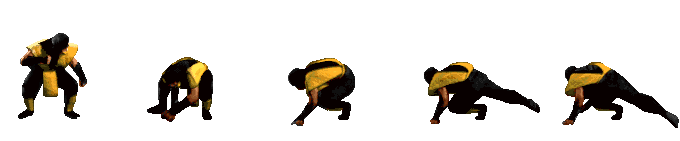
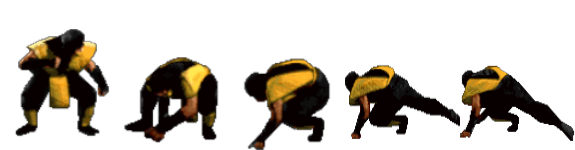
Termine patada baja y agregue golpe de puño que esta incompleto

Changed region(s): [[0.4139, 0.3688, 1.0, 1.0], [0.0296, 0.1702, 0.3843, 0.9645]]

diff --git a/view/GameView.cpp b/view/GameView.cpp
@@ -121,7 +121,7 @@ void GameView::LoadSprites() {
     scorpionKickDown = new CharacterSprite(this->renderer, scorpion->getFileMovement(MOVE_NAME_KICKDOWN), scorpion->getX(), scorpion->getY(), scorpion->getWidth(), scorpion->getHeight(), 5, oponentSide, false);
     scorpionPunchJump = new CharacterSprite(this->renderer, scorpion->getFileMovement(MOVE_NAME_PUNCHJUMP), scorpion->getX(), scorpion->getY(), scorpion->getWidth(), scorpion->getHeight(), 3, oponentSide, false);
     scorpionPunchUp = new CharacterSprite(this->renderer, scorpion->getFileMovement(MOVE_NAME_PUNCHUP), scorpion->getX(), scorpion->getY(), scorpion->getWidth(), scorpion->getHeight(), 5, oponentSide, false);
-    scorpionPunch = new CharacterSprite(this->renderer, scorpion->getFileMovement(MOVE_NAME_PUNCH), scorpion->getX(), scorpion->getY(), scorpion->getWidth(), scorpion->getHeight(), 5, oponentSide, false);
+    scorpionPunch = new CharacterSprite(this->renderer, scorpion->getFileMovement(MOVE_NAME_PUNCH), scorpion->getX(), scorpion->getY(), scorpion->getWidth(), scorpion->getHeight(), 6, oponentSide, false);
     scorpionWinner = new CharacterSprite(this->renderer, scorpion->getFileMovement(MOVE_NAME_WINNER), scorpion->getX(), scorpion->getY(), scorpion->getWidth(), scorpion->getHeight(), 4, oponentSide, false);
     scorpionBodyParts = new CharacterSprite(this->renderer, scorpion->getFileMovement(MOVE_NAME_BODYPARTS), scorpion->getX(), scorpion->getY(), scorpion->getWidth(), scorpion->getHeight(), 8, oponentSide, false);
     scorpionFinisher = new CharacterSprite(this->renderer, scorpion->getFileMovement(MOVE_NAME_FINISHER), scorpion->getX(), scorpion->getY(), scorpion->getWidth(), scorpion->getHeight(), 26, oponentSide, false);
@@ -142,7 +142,7 @@ void GameView::LoadSprites() {
 	raidenKickDown = new CharacterSprite(this->renderer, raiden->getFileMovement(MOVE_NAME_KICKDOWN), raiden->getX(), raiden->getY(), raiden->getWidth(), raiden->getHeight(), 5, oponentSide, false);
 	raidenPunchJump = new CharacterSprite(this->renderer, raiden->getFileMovement(MOVE_NAME_PUNCHJUMP), raiden->getX(), raiden->getY(), raiden->getWidth(), raiden->getHeight(), 3, oponentSide, false);
 	raidenPunchUp = new CharacterSprite(this->renderer, raiden->getFileMovement(MOVE_NAME_PUNCHUP), raiden->getX(), raiden->getY(), raiden->getWidth(), raiden->getHeight(), 5, oponentSide, false);
-	raidenPunch = new CharacterSprite(this->renderer, raiden->getFileMovement(MOVE_NAME_PUNCH), raiden->getX(), raiden->getY(), raiden->getWidth(), raiden->getHeight(), 5, oponentSide, false);
+	raidenPunch = new CharacterSprite(this->renderer, raiden->getFileMovement(MOVE_NAME_PUNCH), raiden->getX(), raiden->getY(), raiden->getWidth(), raiden->getHeight(), 6, oponentSide, false);
 	raidenWinner = new CharacterSprite(this->renderer, raiden->getFileMovement(MOVE_NAME_WINNER), raiden->getX(), raiden->getY(), raiden->getWidth(), raiden->getHeight(), 4, oponentSide, false);
 	raidenBodyParts = new CharacterSprite(this->renderer, raiden->getFileMovement(MOVE_NAME_BODYPARTS), raiden->getX(), raiden->getY(), raiden->getWidth(), raiden->getHeight(), 8, oponentSide, false);
 	raidenFinisher = new CharacterSprite(this->renderer, raiden->getFileMovement(MOVE_NAME_FINISHER), raiden->getX(), raiden->getY(), raiden->getWidth(), raiden->getHeight(), 26, oponentSide, false);
@@ -203,6 +203,10 @@ void GameView::runCharacter() {
     else if (scorpion->getMovement() == "KICKDOWN") {
     		sprite = scorpionKickDown;
     		sprite->Play(100);
+    }
+    else if (scorpion->getMovement() == "PUNCH") {
+    		sprite = scorpionPunch;
+    		sprite->Play(100);
     };
 
     CharacterSprite* sprite2;
@@ -241,6 +245,10 @@ void GameView::runCharacter() {
     }
     else if (raiden->getMovement() == "KICKDOWN") {
         sprite = raidenKickDown;
+        sprite->Play(100);
+    }
+    else if (raiden->getMovement() == "PUNCH") {
+        sprite = raidenPunch;
         sprite->Play(100);
     };
 

diff --git a/controller/GameController.cpp b/controller/GameController.cpp
@@ -28,7 +28,7 @@ void GameController::checkEvent() {
 void GameController::update(MKCharacter* character, MKCharacter* character2) {
      extern logger* Mylog;
 
-    this->joystickController->update(character,character2);
+//    this->joystickController->update(character,character2);
 
     switch (mainEvent->type){
     	case SDL_KEYDOWN:
@@ -96,6 +96,12 @@ void GameController::update(MKCharacter* character, MKCharacter* character2) {
 				case SDLK_f:
 					Mylog->Log("movimiento del personaje: Pateando", ERROR_LEVEL_INFO);
 					character2->setMovement("KICK");
+					previousKey = mainEvent->key.keysym.sym;
+					timer = SDL_GetTicks();
+					break;
+				case SDLK_p:
+					Mylog->Log("movimiento del personaje: Piña.", ERROR_LEVEL_INFO);
+					character->setMovement("PUNCH");
 					previousKey = mainEvent->key.keysym.sym;
 					timer = SDL_GetTicks();
 					break;
